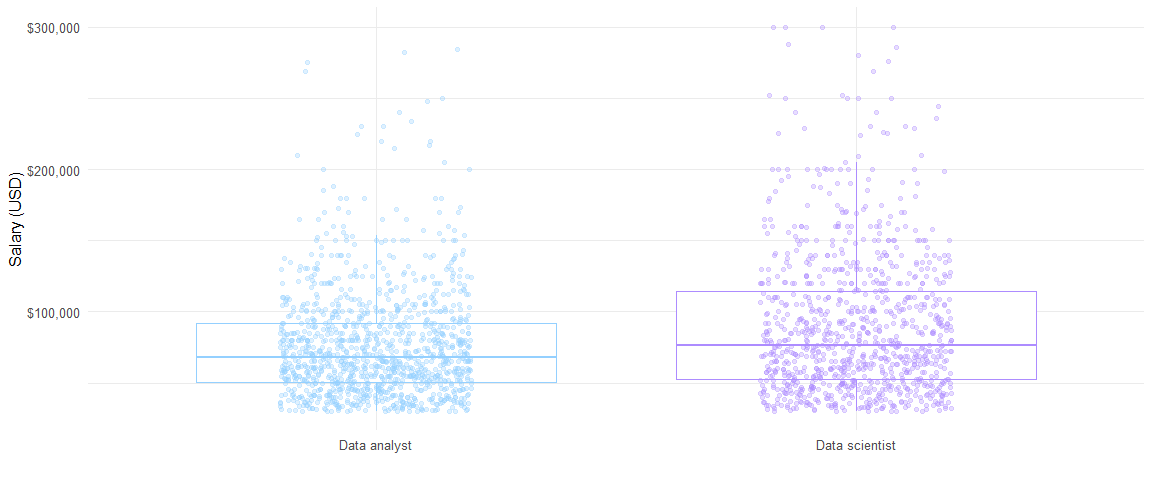
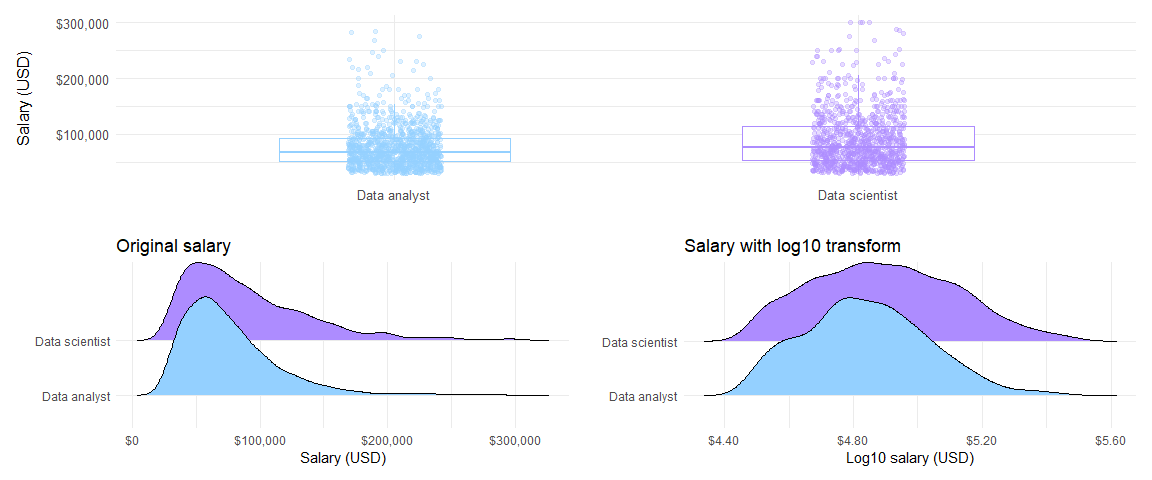
reorder plots with patchwork

diff --git a/README.md b/README.md
@@ -36,13 +36,10 @@ consisting of 973 data scientists and 1177 data analysts.
 #### What do data scientists and data analysts earn?
 
 If we take a look at salaries overall, the median salary for data
-scientists is slightly higher than for data analysts.
+scientists is slightly higher ($76,416) than for data analysts
+($68,000). Salaries for both groups are positively skewed, so fitting a
+linear model to the data would require a log transform (shown below).
 ![](README_files/figure-gfm/unnamed-chunk-1-1.png)<!-- -->
-
-| DevType        | Median salary | Min salary | Max salary |
-| :------------- | :------------ | :--------- | :--------- |
-| Data analyst   | $68,000       | $30,095    | $284,664   |
-| Data scientist | $76,416       | $30,000    | $300,000   |
 
 <br>
 
@@ -181,28 +178,17 @@ relationship between age and salary for either group.
 
 ![](README_files/figure-gfm/unnamed-chunk-3-1.png)<!-- -->
 
-##### Sexuality
-
-The majority of the sample identified solely as heterosexual. A small
-number of respondents identified with more than one sexuality. There
-were no differences in sexuality between data analysts and data
-scientists.
-
-![](README_files/figure-gfm/unnamed-chunk-4-1.png)<!-- -->
-
 #### Education
 
 Median salary was higher for data scientists at each aggregated
 qualification level. Overall there was little effect of education on
 data scientist earnings, whereas earnings were slightly higher for data
-analysts with at least a bachelor’s degree.
+analysts with at least a bachelor’s degree. Breaking down salaries by
+undergrad major and developer type shows that data scientists who
+studied maths or statistics had the highest median earnings whereas data
+analysts who’d studied maths or statistics had the lowest.
 
-![](README_files/figure-gfm/unnamed-chunk-5-1.png)<!-- -->
-
-Breaking down salaries by undergrad major and developer type shows that
-data scientists who studied maths or statistics had the highest median
-earnings whereas data analysts who’d studied maths or statistics had the
-lowest.
+![](README_files/figure-gfm/unnamed-chunk-4-1.png)<!-- -->
 
 <table>
 
@@ -579,3 +565,13 @@ $61,825
 </tbody>
 
 </table>
+
+#### Employment
+
+Median salaries were highest for data scientists who weren’t
+professional developers. There was an upward trend of salary ranges as
+organisation size increased.
+
+<br>
+
+![](README_files/figure-gfm/unnamed-chunk-5-1.png)<!-- -->
